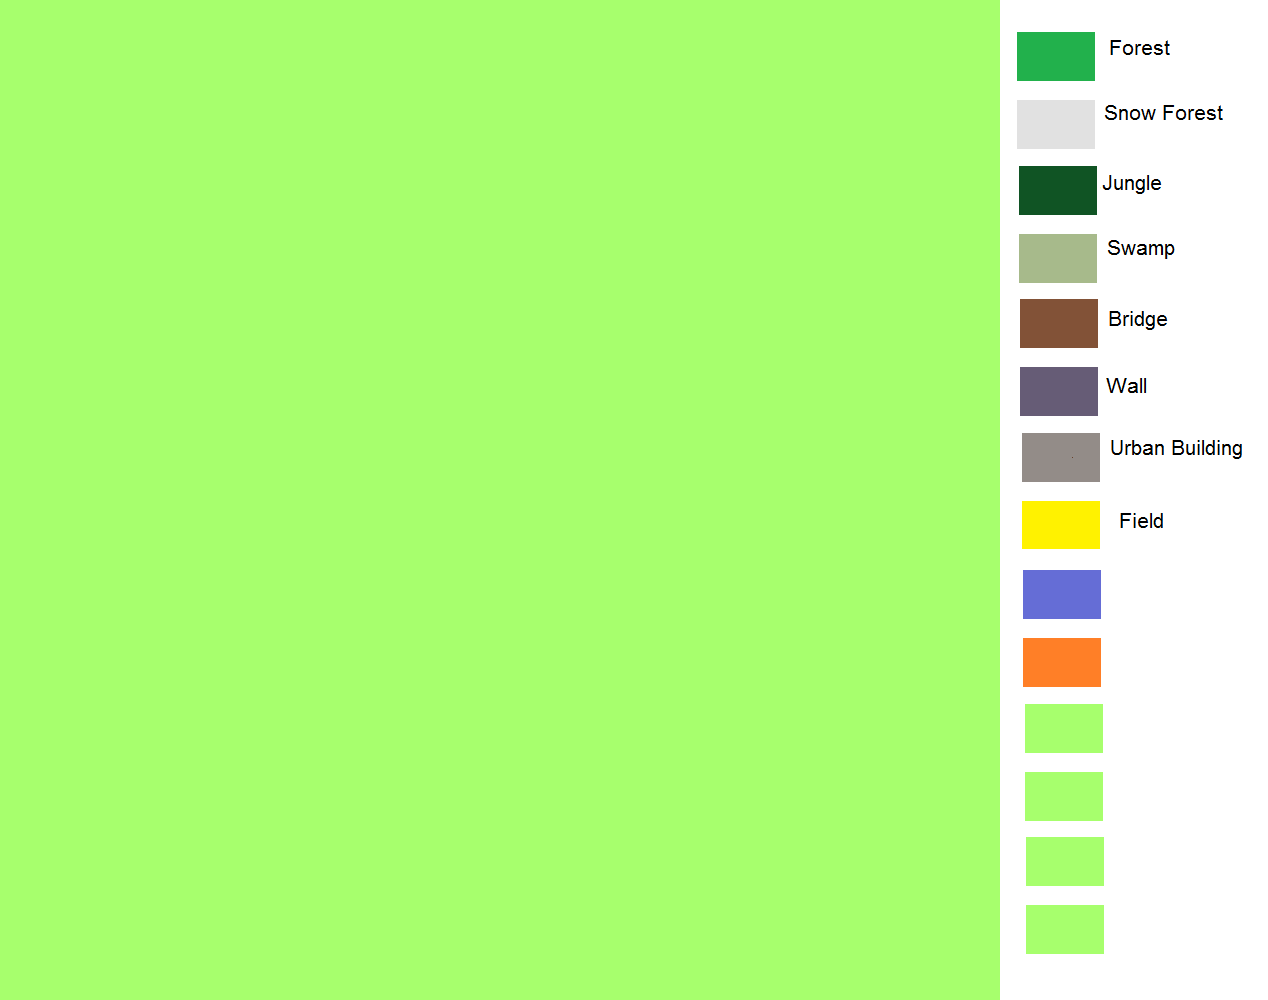
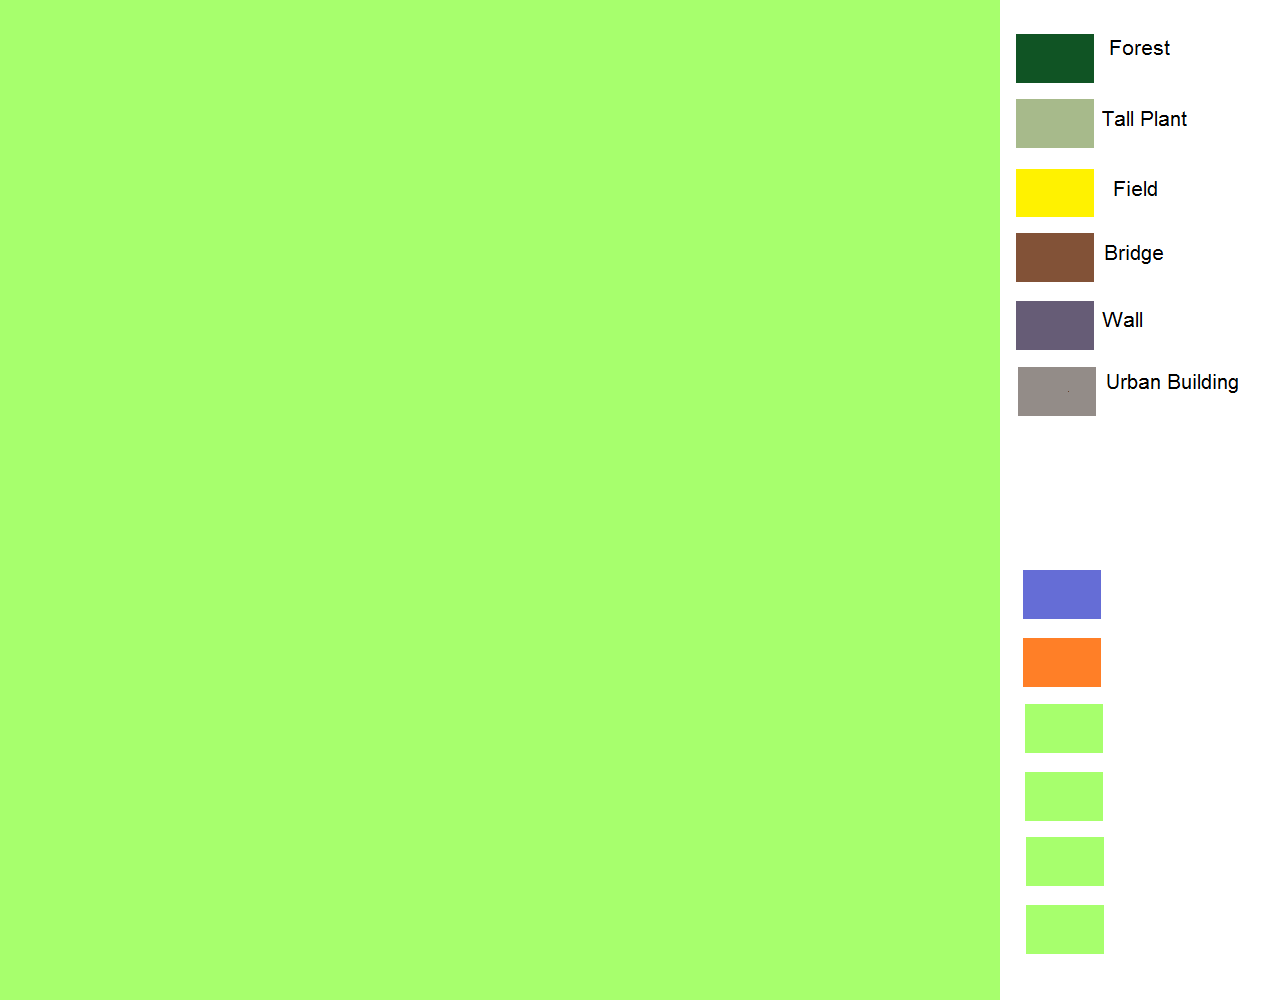
Update 0.3.3.2
- Add a map feature function but not activated yet
- Small gamemap code optimisation

Changed region(s): [[0.7997, 0.031, 0.9842, 0.558]]

diff --git a/script/gamemap.py b/script/gamemap.py
@@ -33,11 +33,7 @@ class map(pygame.sprite.Sprite):
 
     def getterrain(self, pos):
         terrain = self.image.get_at((int(pos[0]), int(pos[1]))) ##get colour at pos to obtain the terrain type
-        # terrainindex = None
-        for index, colour in enumerate(self.terraincolour):
-            if terrain == colour:
-                terrainindex = index
-                break
+        terrainindex = self.terraincolour.index(terrain)
         return terrainindex
 
     # def update(self, dt, pos, scale):
@@ -45,7 +41,38 @@ class map(pygame.sprite.Sprite):
 class mapfeature(pygame.sprite.Sprite):
     images = []
 
-    def __init__(self, x, y, image):
+    def __init__(self, scale):
         self._layer = 1
+        pygame.sprite.Sprite.__init__(self, self.containers)
+        self.image = self.images[0]
+        self.scale = scale
+        scalewidth = self.image.get_width() * self.scale
+        scaleheight = self.image.get_height() * self.scale
+        self.dim = pygame.Vector2(scalewidth, scaleheight)
+        self.image_original = self.image.copy()
+        self.image = pygame.transform.scale(self.image_original, (int(self.dim[0]), int(self.dim[1])))
+        self.rect = self.image.get_rect(topleft=(0,0))
+        self.featurecolour = [(16,84,36,255),(167,186,139,255),(255,242,0,255),(130,82,55,255),(102,92,118,255),(147,140,136,255)] ## forest, tall plant/grass, field, bridge, wall, urban building
+
+    def changescale(self,scale):
+        self.scale = scale
+        self.image = self.image_original
+        scalewidth = self.image.get_width() * self.scale
+        scaleheight = self.image.get_height() * self.scale
+        self.dim = pygame.Vector2(scalewidth, scaleheight)
+        self.image = pygame.transform.scale(self.image_original, (int(self.dim[0]), int(self.dim[1])))
+
+    def getfaature(self, pos):
+        feature = self.image.get_at((int(pos[0]), int(pos[1]))) ##get colour at pos to obtain the terrain type
+        featureindex = None
+        if feature in self.featurecolour:
+            featureindex = self.featurecolour.index(feature)
+        return featureindex
+
+class beautifulmap(pygame.sprite.Sprite):
+    images = []
+
+    def __init__(self, x, y, image):
+        self._layer = 2
         pygame.sprite.Sprite.__init__(self, self.containers)
 

diff --git a/gametest.py b/gametest.py
@@ -78,15 +78,11 @@ import timeit
 #            if k == 5: print(k)
 #     run += 1
 # print("The time difference is :", timeit.default_timer() - starttime)
-# starttime = timeit.default_timer()
-# print("The start time is :",starttime)
-# run = 0
-# k = 10
-# while run != 5:
-#     a = random.randint(0,20)
-#     if a > 10:
-#         k = 10
-#     else: 0
-#     run += 1
-# print("The time difference is :", timeit.default_timer() - starttime)
-print("\\test")
+featurecolour = np.array(((16,84,36,255),(167,186,139,255),(255,242,0,255),(130,82,55,255),(102,92,118,255),(147,140,136,255))) ## forest, tall plant/grass, field, bridge, wall, urban building
+
+starttime = timeit.default_timer()
+print("The start time is :",starttime)
+run = 0
+print(list((16,84,36,255)))
+print("The time difference is :", timeit.default_timer() - starttime)
+##0.06538829500000004 0.055473137000000006

diff --git a/mainmenu.py b/mainmenu.py
@@ -299,7 +299,7 @@ class mainmenu():
                                         gamescreen=self.screen, value=SoundVolume, min_value=0, max_value=100)
         img = load_image('volume_icon.png', 'ui')
         self.volumeicon = menuicon(images=[img], X=self.sliderbutton1.X - 150, Y=self.sliderbutton1.Y, gamescreen=self.screen, imageresize=50)
-        pygame.display.set_caption('Pax Paradisum')
+        pygame.display.set_caption('The World at Hand')
         pygame.mouse.set_visible(1)
         if pygame.mixer:
             self.mixervolume = float(SoundVolume / 100)

diff --git a/Readme.md b/Readme.md
@@ -1,7 +1,7 @@
 Historical battle simulation game made with Pygame. There is no main name for the game but rather the name will be based on major update. 
 The current code structure and documentation follows no standard guideline whatsoever, so read and confuse at your own risk (until ver 0.5).
 
-Also the game currently use pygame 1.9.6 module and will not work with pygame 2 as I have no plan to upgrade it anytime soon.
+Also the game currently use pygame 1.9.6 module and will not work with pygame 2 as there is no plan to upgrade it anytime soon.
 
 For Video update: https://www.youtube.com/channel/UCgapwWog3mYhkEKIGW8VZtw
 
@@ -13,7 +13,7 @@ Ver 0.4 Window of Insight: More complex UI function (Event log, popup box), Dram
 
 Ver 0.5 Preparation for Chaos: Optimise for larger battle (Also proper code documentation + structure) as the saying goes, just because it works does not mean it is optimised
 
-Ver 0.6 Dream Decision: Battle selection, preparation and result screen, custom battle
+Ver 0.6 Dream Decision: Battle selection, preparation and result screen, custom battle, improve main menu
 
 Ver 0.7 Future Visionary: Fog of War, hidden stat, line of sight, battalion information based on hidden vs sight, raise flag/ light torch and recon command, ambush bonus
 
